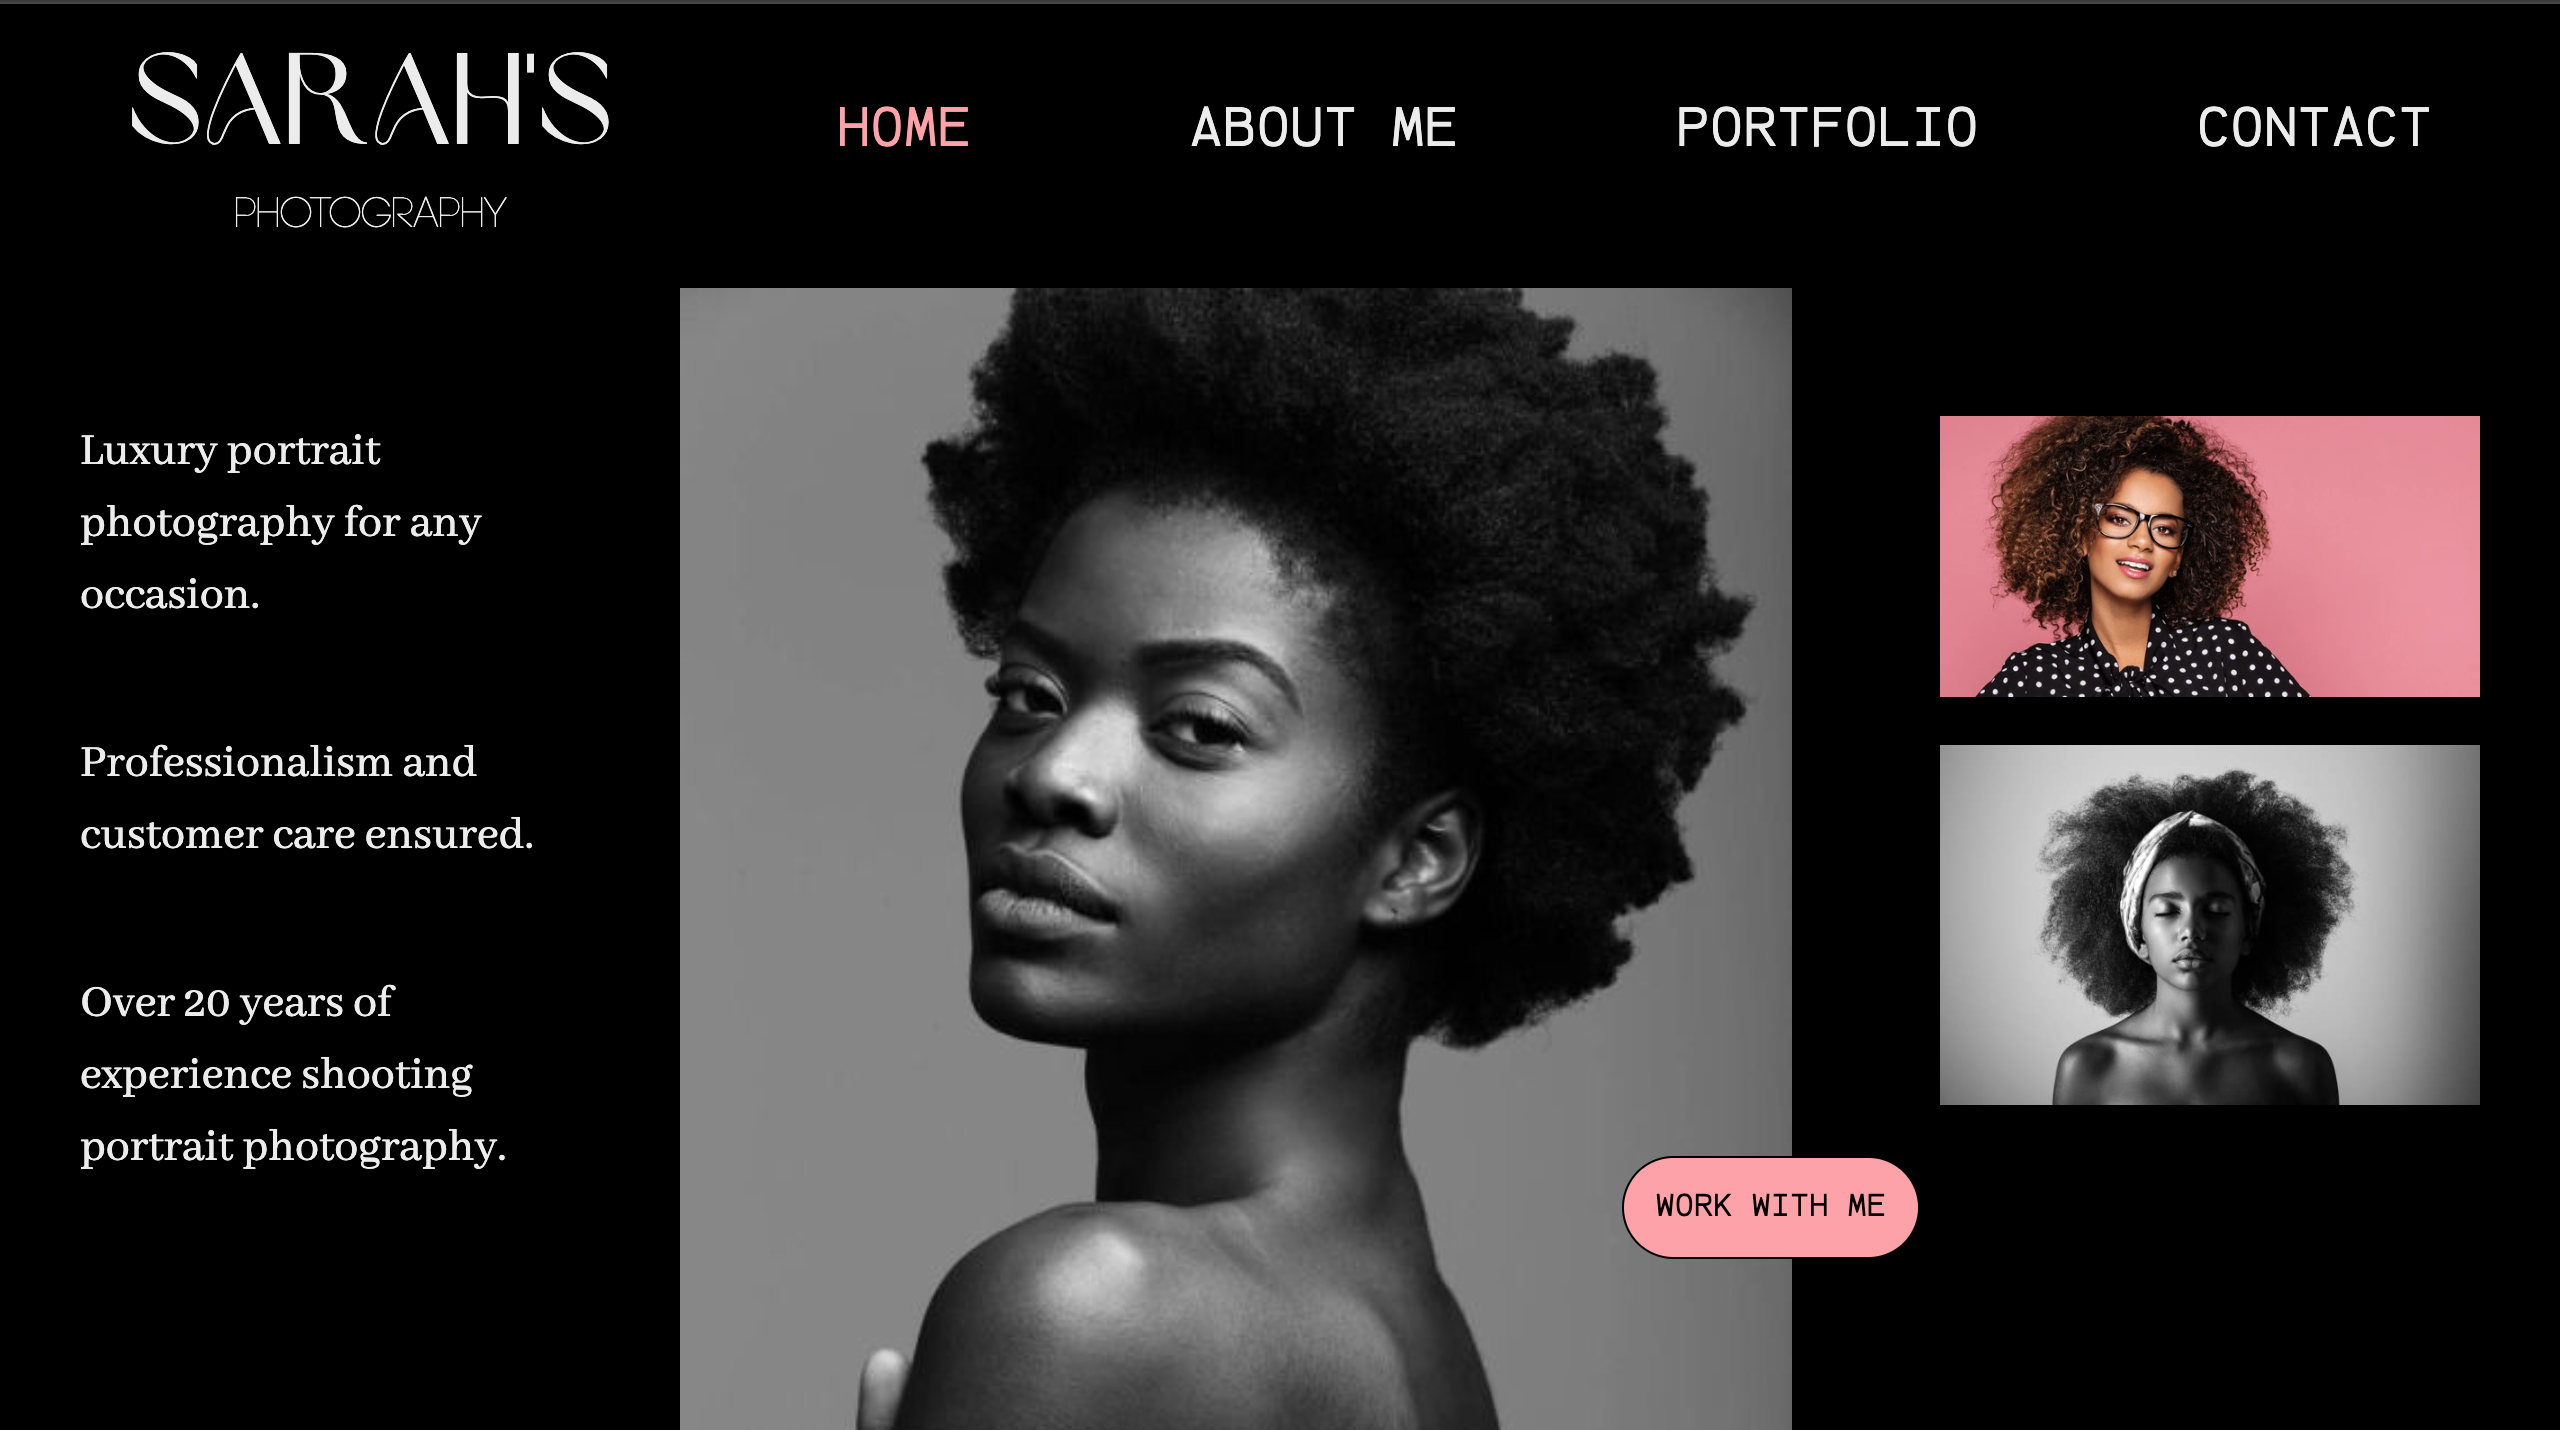
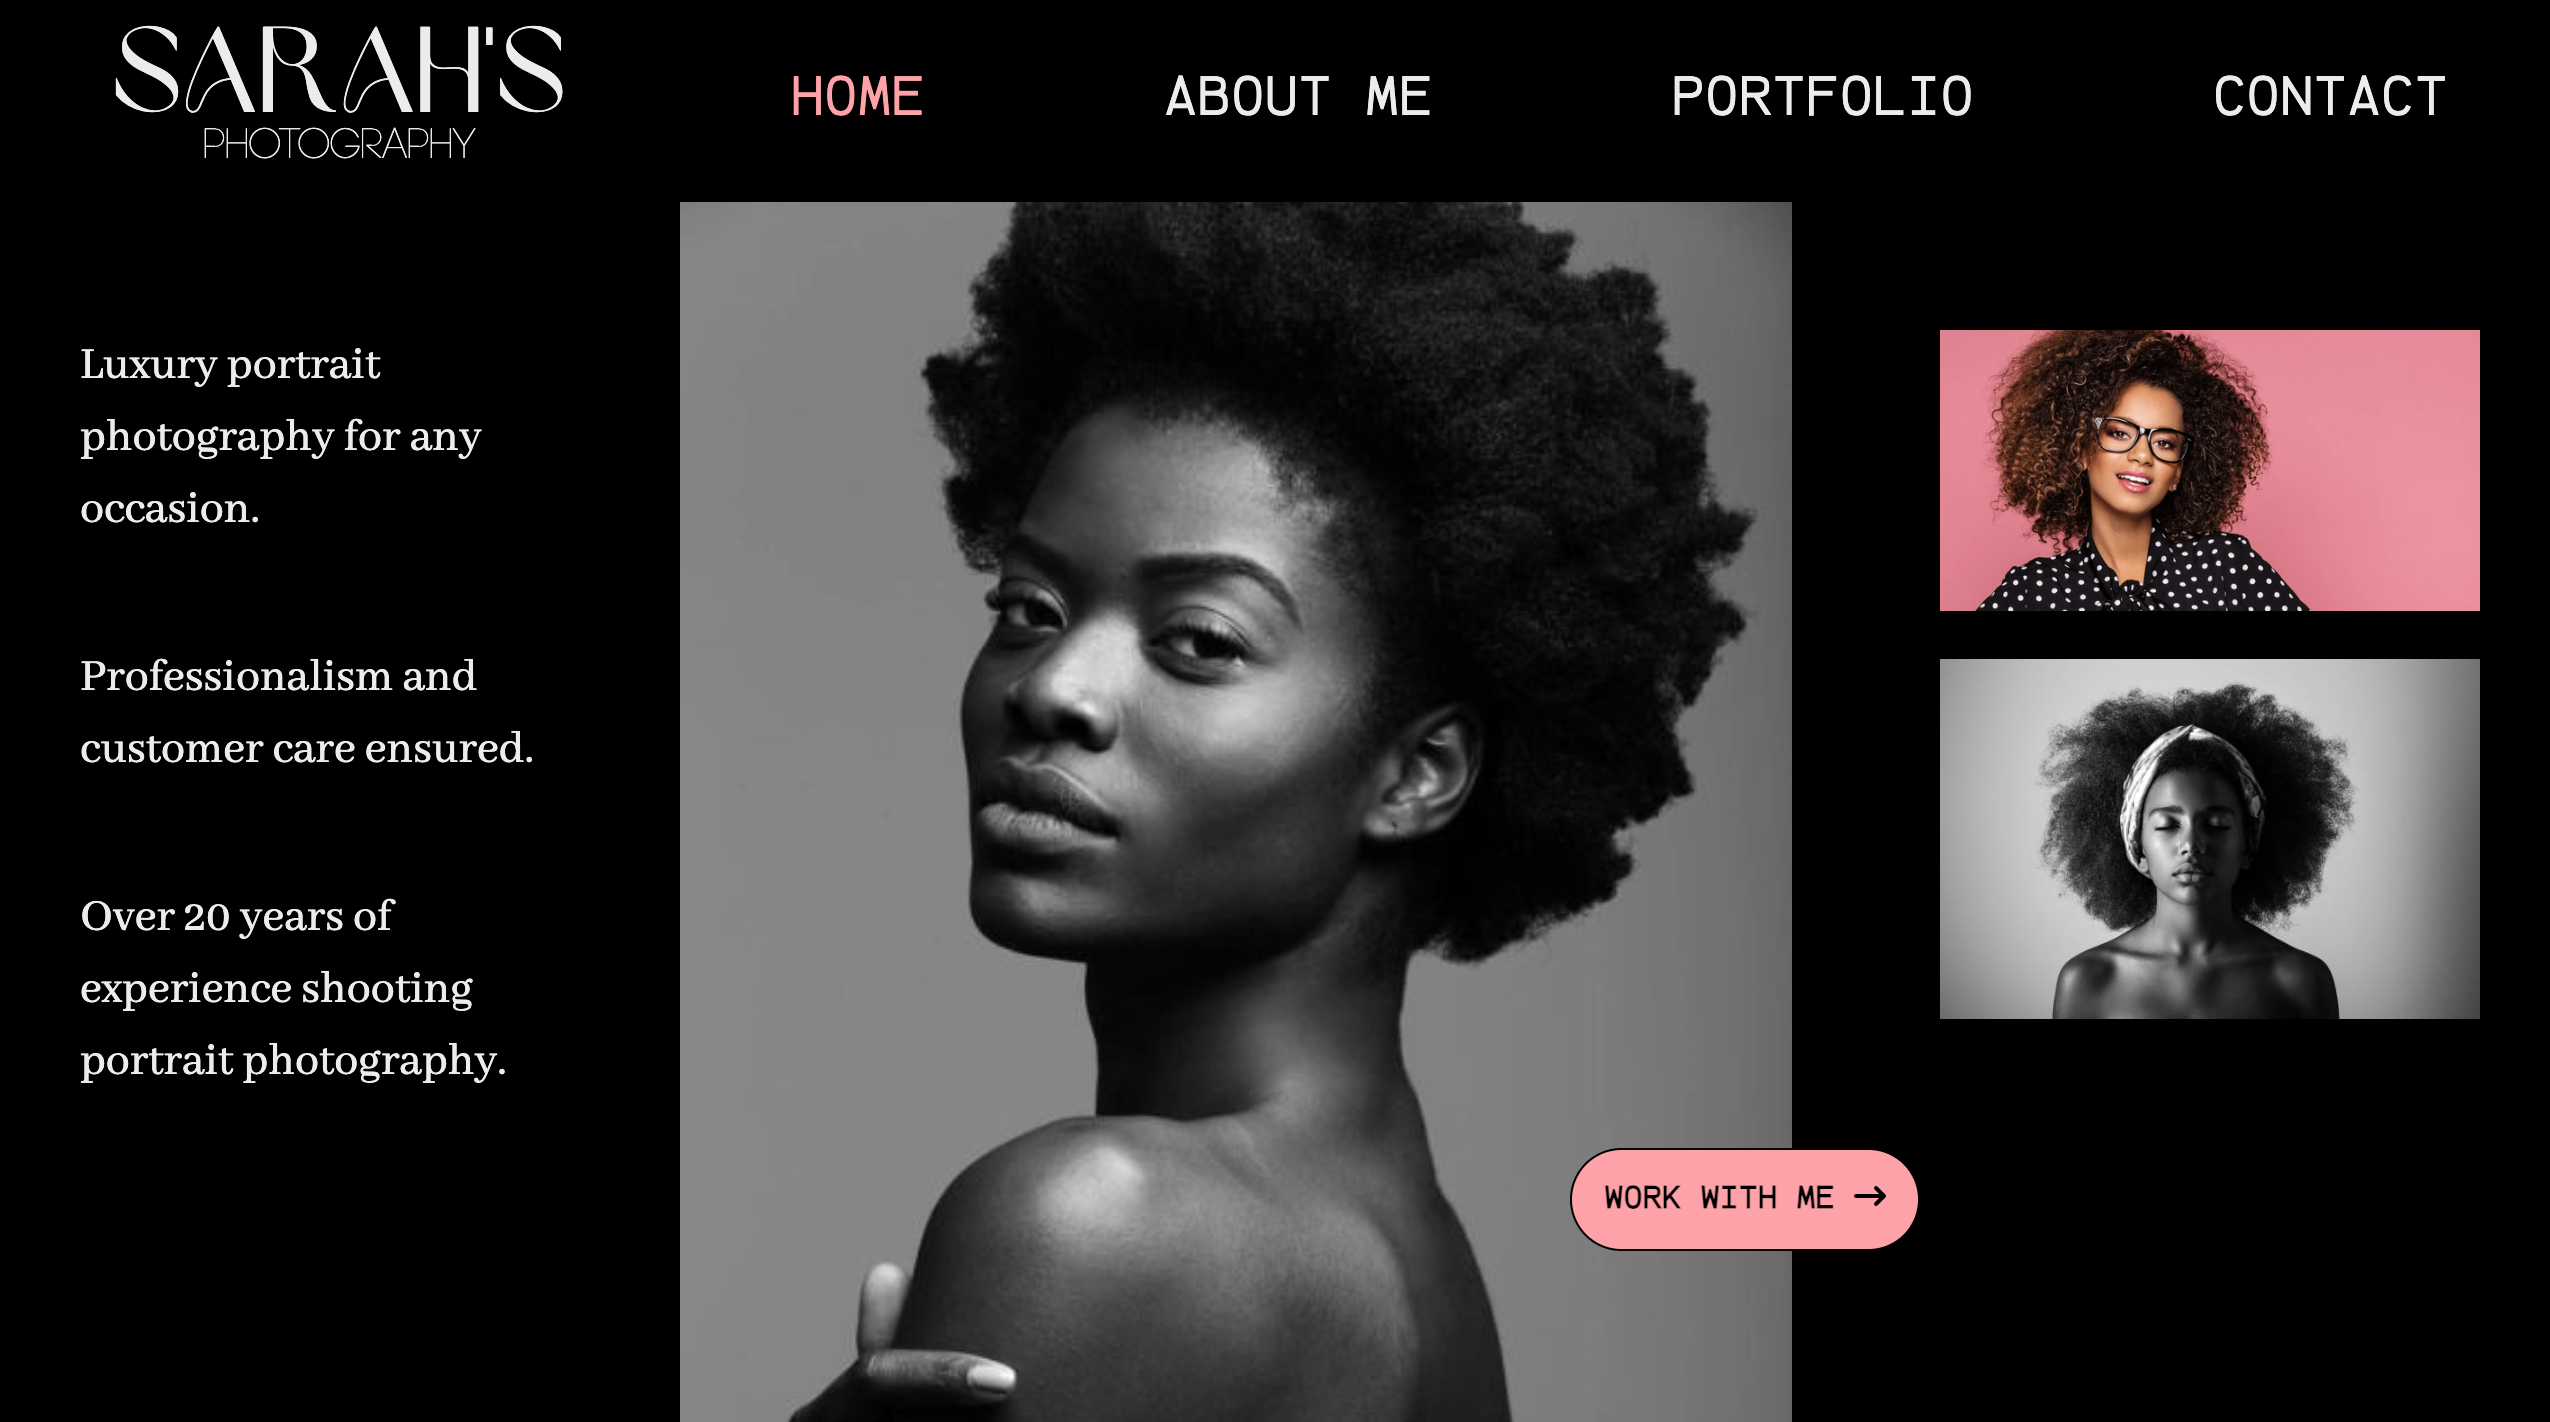
updated readme

diff --git a/index.html b/index.html
@@ -10,6 +10,10 @@
 			integrity="sha384-T3c6CoIi6uLrA9TneNEoa7RxnatzjcDSCmG1MXxSR1GAsXEV/Dwwykc2MPK8M2HN"
 			crossorigin="anonymous"
 		/>
+		<link
+			rel="stylesheet"
+			href="https://cdnjs.cloudflare.com/ajax/libs/font-awesome/6.5.1/css/all.min.css"
+		/>
 		<link rel="stylesheet" href="./styles/home.css" />
 		<title>Sarah The Photographer</title>
 	</head>
@@ -49,8 +53,10 @@
 						</div>
 						<div class="button-div">
 							<button class="work-btn">
-								<a href="contact-me.html">work with me</a
-								><i class="fa-solid fa-arrow-right-long"></i>
+								<a href="contact-me.html"
+									>work with me
+									<i class="fa-solid fa-arrow-right-long"></i
+								></a>
 							</button>
 						</div>
 					</div>

diff --git a/styles/home.css b/styles/home.css
@@ -188,6 +188,7 @@ main {
 button a {
 	text-decoration: none;
 	color: black;
+	font-weight: 600;
 }
 
 /* Footer */

diff --git a/README.md b/README.md
@@ -59,10 +59,10 @@ Other Tools: Git, VSCode, Bootstrap
 
 ## Team Members
 
--  [Mutiat Bashua](https://github.com/MutiatBash)
--  [Bolaji](https://github.com/toomanyfishb)
--  [Beatrice Ajah](https://github.com/Onyiajah)
--  [Priscilla](https://github.com/Pazil24)
+-  [Mutiat Bashua](https://github.com/MutiatBash) - Home Page Implementation
+-  [Bolaji](https://github.com/toomanyfishb) - Portfolio Page Implementation
+-  [Beatrice Ajah](https://github.com/Onyiajah) - Contact Page Implementation
+-  [Priscilla](https://github.com/Pazil24) - About Page Implementation
 
 ## Conclusion
 
